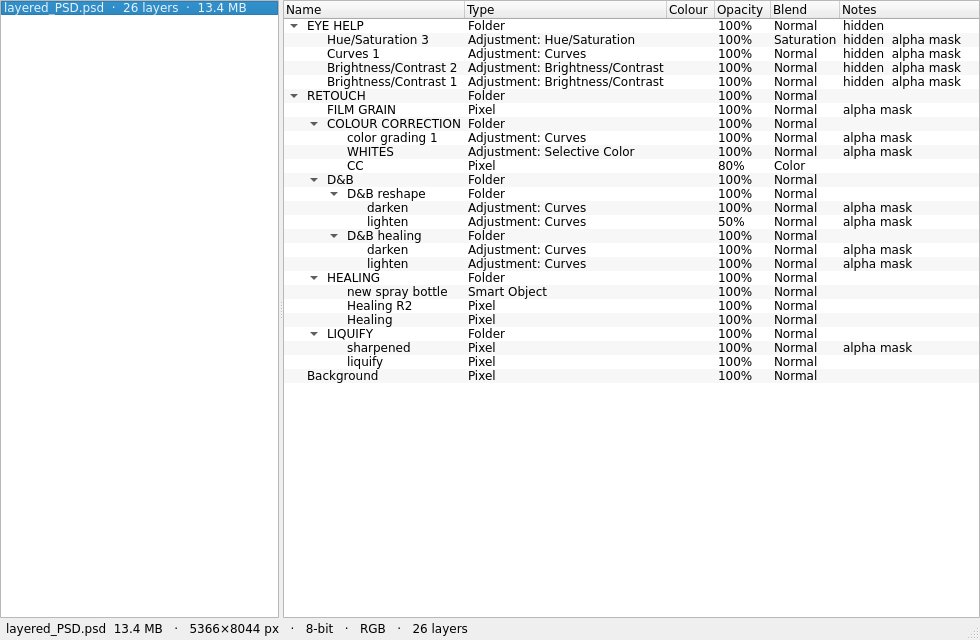
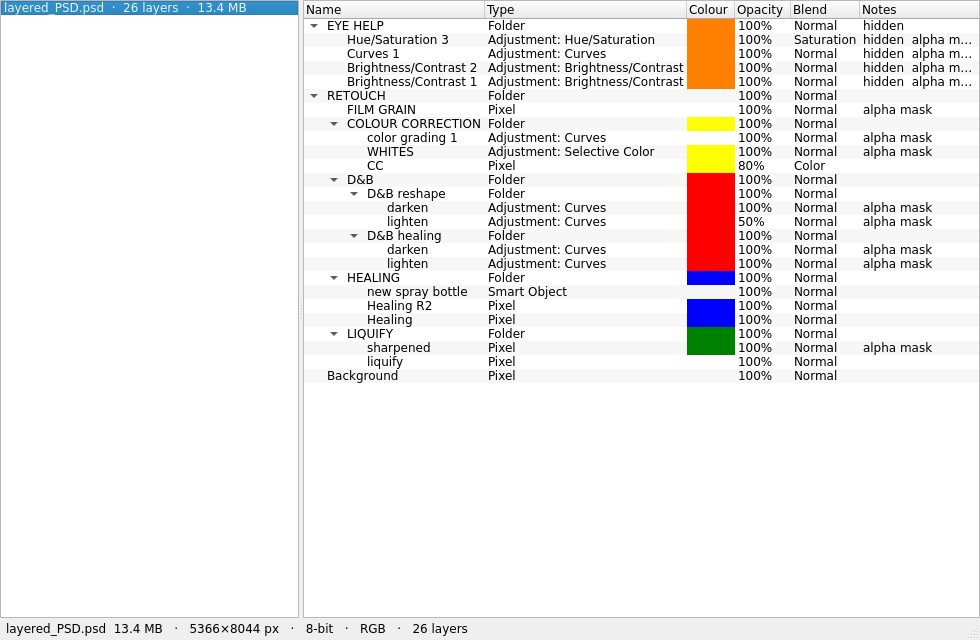
Fix layer colours: correct sheet-colour table and typed lclr reading; ship ca-pa.spec (was gitignored) so CI can build

Changed region(s): [[0.2755, 0.0, 0.9796, 0.5938], [0.2755, 0.4688, 0.3061, 0.5]]

diff --git a/src/ca_pa/psd_parser.py b/src/ca_pa/psd_parser.py
@@ -192,12 +192,31 @@ def _color(record, blocks) -> str | None:
         hexcolor = labels.rgba_to_hex(raw[:4])
         if hexcolor:
             return hexcolor
-    raw = _raw_block(blocks, b"lclr")
-    if raw is not None and len(raw) >= 4:
-        code = struct.unpack(">I", raw[:4])[0]
-        if code:
-            return labels.SHEET_COLORS.get(code)
+    code = _sheet_color_code(blocks)
+    if code:
+        return labels.SHEET_COLORS.get(code)
     return None
+
+
+def _sheet_color_code(blocks) -> int:
+    """The ``lclr`` sheet-colour code (0-11), whether psd-tools parsed it into
+    a ``SheetColorType`` enum or left it as raw bytes."""
+    block = blocks.get(b"lclr")
+    if block is None:
+        try:
+            block = blocks.get(Tag.SHEET_COLOR_SETTING)
+        except Exception:
+            block = None
+    if block is None:
+        return 0
+    data = getattr(block, "data", block)
+    value = getattr(data, "value", data)  # SheetColorType enum -> int
+    try:
+        return int(value)
+    except (TypeError, ValueError):
+        if isinstance(data, (bytes, bytearray)) and len(data) >= 4:
+            return struct.unpack(">I", data[:4])[0]
+    return 0
 
 
 def _effects(layer) -> list[str]:

diff --git a/src/ca_pa/labels.py b/src/ca_pa/labels.py
@@ -38,15 +38,20 @@ BLEND_MODE_NAMES: dict[bytes, str] = {
 }
 
 #: Photoshop colour labels ('lclr' sheet colour / layer swatch).
+#: Photoshop layer "sheet" colours (the ``lclr`` / ``rlcl`` block, a 0-11 code
+#: matching psd-tools' ``SheetColorType``).  0 is "no colour".
 SHEET_COLORS: dict[int, str] = {
     1: "#ff0000",  # Red
     2: "#ff8000",  # Orange
     3: "#ffff00",  # Yellow
     4: "#008000",  # Green
-    5: "#ff0080",  # Pink
-    6: "#800080",  # Purple
-    7: "#000080",  # Blue
-    8: "#808080",  # Gray
+    5: "#0000ff",  # Blue
+    6: "#800080",  # Violet
+    7: "#808080",  # Gray
+    8: "#008080",  # Seafoam
+    9: "#000080",  # Indigo
+    10: "#ff0080",  # Magenta
+    11: "#ff00ff",  # Fuchsia
 }
 
 #: Photoshop adjustment tag -> label.
